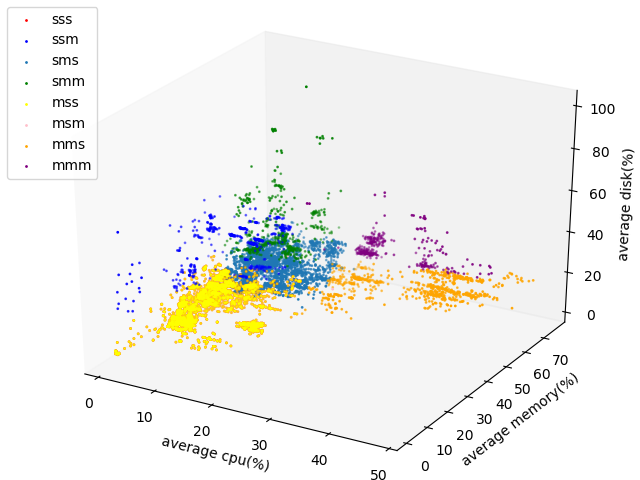
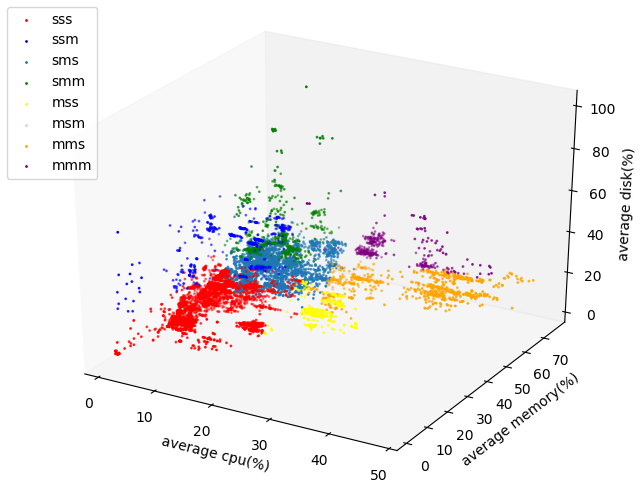
add聚类后的特征分析（cpu memory等）

Changed region(s): [[0.1875, 0.5312, 0.5625, 0.75], [0.1562, 0.7188, 0.1875, 0.75]]

diff --git a/mysql_analysis/online_service/kmeans_container_instance_analysis.py b/mysql_analysis/online_service/kmeans_container_instance_analysis.py
@@ -31,68 +31,92 @@ def graph():
     try:
         # 查询数据条目
         cursor.execute(
-            "SELECT instance_id, avg(avg_cpi), avg(avg_mpki) FROM container_usage WHERE instance_id IN ( SELECT t.instance_id FROM ( SELECT instance_id, avg(cpu_util) AS avg_cpu, avg(mem_util) AS avg_mem, avg(disk_util) AS avg_disk FROM container_usage WHERE mem_util > 0 AND cpu_util > 0 AND disk_util > 0 GROUP BY instance_id ) t WHERE t.avg_cpu <= 17.0986 AND t.avg_mem <= 45.5775 AND t.avg_disk <= 22.8332 ) GROUP BY instance_id")
+            "SELECT instance_id, avg(avg_cpi), avg(avg_mpki), avg(cpu_util), avg(mem_util), avg(disk_util) FROM container_usage WHERE instance_id IN ( SELECT t.instance_id FROM ( SELECT instance_id, avg(cpu_util) AS avg_cpu, avg(mem_util) AS avg_mem, avg(disk_util) AS avg_disk FROM container_usage WHERE mem_util > 0 AND cpu_util > 0 AND disk_util > 0 GROUP BY instance_id ) t WHERE t.avg_cpu <= 17.0986 AND t.avg_mem <= 45.5775 AND t.avg_disk <= 22.8332 ) GROUP BY instance_id")
         sss_instance = cursor.fetchall()
         sss_instance_list = list(sss_instance)
         sss_instance_id = [x[0] for x in sss_instance_list]
         sss_avg_cpi = [x[1] for x in sss_instance_list]
         sss_avg_mpki = [x[2] for x in sss_instance_list]
+        sss_avg_cpu = [x[3] for x in sss_instance_list]
+        sss_avg_mem = [x[4] for x in sss_instance_list]
+        sss_avg_disk = [x[5] for x in sss_instance_list]
 
         cursor.execute(
-            "SELECT instance_id, avg(avg_cpi), avg(avg_mpki) FROM container_usage WHERE instance_id IN ( SELECT t.instance_id FROM ( SELECT instance_id, avg(cpu_util) AS avg_cpu, avg(mem_util) AS avg_mem, avg(disk_util) AS avg_disk FROM container_usage WHERE mem_util > 0 AND cpu_util > 0 AND disk_util > 0 GROUP BY instance_id ) t WHERE t.avg_cpu <= 17.0986 AND t.avg_mem <= 45.5775  AND t.avg_disk > 22.8332 ) group by instance_id")
+            "SELECT instance_id, avg(avg_cpi), avg(avg_mpki), avg(cpu_util), avg(mem_util), avg(disk_util) FROM container_usage WHERE instance_id IN ( SELECT t.instance_id FROM ( SELECT instance_id, avg(cpu_util) AS avg_cpu, avg(mem_util) AS avg_mem, avg(disk_util) AS avg_disk FROM container_usage WHERE mem_util > 0 AND cpu_util > 0 AND disk_util > 0 GROUP BY instance_id ) t WHERE t.avg_cpu <= 17.0986 AND t.avg_mem <= 45.5775  AND t.avg_disk > 22.8332 ) group by instance_id")
         ssm_instance = cursor.fetchall()
         ssm_instance_list = list(ssm_instance)
         ssm_instance_id = [x[0] for x in ssm_instance_list]
         ssm_avg_cpi = [x[1] for x in ssm_instance_list]
         ssm_avg_mpki = [x[2] for x in ssm_instance_list]
+        ssm_avg_cpu = [x[3] for x in ssm_instance_list]
+        ssm_avg_mem = [x[4] for x in ssm_instance_list]
+        ssm_avg_disk = [x[5] for x in ssm_instance_list]
 
         cursor.execute(
-            "SELECT instance_id, avg(avg_cpi), avg(avg_mpki) FROM container_usage WHERE instance_id IN ( SELECT t.instance_id FROM ( SELECT instance_id, avg(cpu_util) AS avg_cpu, avg(mem_util) AS avg_mem, avg(disk_util) AS avg_disk FROM container_usage WHERE mem_util > 0 AND cpu_util > 0 AND disk_util > 0 GROUP BY instance_id ) t WHERE t.avg_cpu <= 17.0986 AND t.avg_mem > 45.5775 AND t.avg_disk < 22.8332 ) group by instance_id")
+            "SELECT instance_id, avg(avg_cpi), avg(avg_mpki), avg(cpu_util), avg(mem_util), avg(disk_util) FROM container_usage WHERE instance_id IN ( SELECT t.instance_id FROM ( SELECT instance_id, avg(cpu_util) AS avg_cpu, avg(mem_util) AS avg_mem, avg(disk_util) AS avg_disk FROM container_usage WHERE mem_util > 0 AND cpu_util > 0 AND disk_util > 0 GROUP BY instance_id ) t WHERE t.avg_cpu <= 17.0986 AND t.avg_mem > 45.5775 AND t.avg_disk < 22.8332 ) group by instance_id")
         sms_instance = cursor.fetchall()
         sms_instance_list = list(sms_instance)
         sms_instance_id = [x[0] for x in sms_instance_list]
         sms_avg_cpi = [x[1] for x in sms_instance_list]
         sms_avg_mpki = [x[2] for x in sms_instance_list]
+        sms_avg_cpu = [x[3] for x in sms_instance_list]
+        sms_avg_mem = [x[4] for x in sms_instance_list]
+        sms_avg_disk = [x[5] for x in sms_instance_list]
 
         cursor.execute(
-            "SELECT instance_id, avg(avg_cpi), avg(avg_mpki) FROM container_usage WHERE instance_id IN ( SELECT t.instance_id FROM ( SELECT instance_id, avg(cpu_util) AS avg_cpu, avg(mem_util) AS avg_mem, avg(disk_util) AS avg_disk FROM container_usage WHERE mem_util > 0 AND cpu_util > 0 AND disk_util > 0 GROUP BY instance_id ) t WHERE t.avg_cpu <= 17.0986 AND t.avg_mem > 45.5775 AND t.avg_disk > 22.8332 ) group by instance_id")
+            "SELECT instance_id, avg(avg_cpi), avg(avg_mpki), avg(cpu_util), avg(mem_util), avg(disk_util) FROM container_usage WHERE instance_id IN ( SELECT t.instance_id FROM ( SELECT instance_id, avg(cpu_util) AS avg_cpu, avg(mem_util) AS avg_mem, avg(disk_util) AS avg_disk FROM container_usage WHERE mem_util > 0 AND cpu_util > 0 AND disk_util > 0 GROUP BY instance_id ) t WHERE t.avg_cpu <= 17.0986 AND t.avg_mem > 45.5775 AND t.avg_disk > 22.8332 ) group by instance_id")
         smm_instance = cursor.fetchall()
         smm_instance_list = list(smm_instance)
         smm_instance_id = [x[0] for x in smm_instance_list]
         smm_avg_cpi = [x[1] for x in smm_instance_list]
         smm_avg_mpki = [x[2] for x in smm_instance_list]
+        smm_avg_cpu = [x[3] for x in smm_instance_list]
+        smm_avg_mem = [x[4] for x in smm_instance_list]
+        smm_avg_disk = [x[5] for x in smm_instance_list]
 
         cursor.execute(
-            "SELECT instance_id, avg(avg_cpi), avg(avg_mpki) FROM container_usage WHERE instance_id IN ( SELECT t.instance_id FROM ( SELECT instance_id, avg(cpu_util) AS avg_cpu, avg(mem_util) AS avg_mem, avg(disk_util) AS avg_disk FROM container_usage WHERE mem_util > 0 AND cpu_util > 0 AND disk_util > 0 GROUP BY instance_id ) t WHERE t.avg_cpu > 17.0986 AND t.avg_mem <= 45.5775 AND t.avg_disk <= 22.8332 ) group by instance_id")
+            "SELECT instance_id, avg(avg_cpi), avg(avg_mpki), avg(cpu_util), avg(mem_util), avg(disk_util) FROM container_usage WHERE instance_id IN ( SELECT t.instance_id FROM ( SELECT instance_id, avg(cpu_util) AS avg_cpu, avg(mem_util) AS avg_mem, avg(disk_util) AS avg_disk FROM container_usage WHERE mem_util > 0 AND cpu_util > 0 AND disk_util > 0 GROUP BY instance_id ) t WHERE t.avg_cpu > 17.0986 AND t.avg_mem <= 45.5775 AND t.avg_disk <= 22.8332 ) group by instance_id")
         mss_instance = cursor.fetchall()
         mss_instance_list = list(mss_instance)
         mss_instance_id = [x[0] for x in mss_instance_list]
         mss_avg_cpi = [x[1] for x in mss_instance_list]
         mss_avg_mpki = [x[2] for x in mss_instance_list]
+        mss_avg_cpu = [x[3] for x in mss_instance_list]
+        mss_avg_mem = [x[4] for x in mss_instance_list]
+        mss_avg_disk = [x[5] for x in mss_instance_list]
 
         cursor.execute(
-            "SELECT instance_id, avg(avg_cpi), avg(avg_mpki) FROM container_usage WHERE instance_id IN ( SELECT t.instance_id FROM ( SELECT instance_id, avg(cpu_util) AS avg_cpu, avg(mem_util) AS avg_mem, avg(disk_util) AS avg_disk FROM container_usage WHERE mem_util > 0 AND cpu_util > 0 AND disk_util > 0 GROUP BY instance_id ) t WHERE t.avg_cpu > 17.0986 AND t.avg_mem <= 45.5775 AND t.avg_disk > 22.8332 ) group by instance_id")
+            "SELECT instance_id, avg(avg_cpi), avg(avg_mpki), avg(cpu_util), avg(mem_util), avg(disk_util) FROM container_usage WHERE instance_id IN ( SELECT t.instance_id FROM ( SELECT instance_id, avg(cpu_util) AS avg_cpu, avg(mem_util) AS avg_mem, avg(disk_util) AS avg_disk FROM container_usage WHERE mem_util > 0 AND cpu_util > 0 AND disk_util > 0 GROUP BY instance_id ) t WHERE t.avg_cpu > 17.0986 AND t.avg_mem <= 45.5775 AND t.avg_disk > 22.8332 ) group by instance_id")
         msm_instance = cursor.fetchall()
         msm_instance_list = list(msm_instance)
         msm_instance_id = [x[0] for x in msm_instance_list]
         msm_avg_cpi = [x[1] for x in msm_instance_list]
         msm_avg_mpki = [x[2] for x in msm_instance_list]
+        msm_avg_cpu = [x[3] for x in msm_instance_list]
+        msm_avg_mem = [x[4] for x in msm_instance_list]
+        msm_avg_disk = [x[5] for x in msm_instance_list]
 
         cursor.execute(
-            "SELECT instance_id, avg(avg_cpi), avg(avg_mpki) FROM container_usage WHERE instance_id IN ( SELECT t.instance_id FROM ( SELECT instance_id, avg(cpu_util) AS avg_cpu, avg(mem_util) AS avg_mem, avg(disk_util) AS avg_disk FROM container_usage WHERE mem_util > 0 AND cpu_util > 0 AND disk_util > 0 GROUP BY instance_id ) t WHERE t.avg_cpu > 17.0986 AND t.avg_mem > 45.5775 AND t.avg_disk < 22.8332 ) group by instance_id")
+            "SELECT instance_id, avg(avg_cpi), avg(avg_mpki), avg(cpu_util), avg(mem_util), avg(disk_util) FROM container_usage WHERE instance_id IN ( SELECT t.instance_id FROM ( SELECT instance_id, avg(cpu_util) AS avg_cpu, avg(mem_util) AS avg_mem, avg(disk_util) AS avg_disk FROM container_usage WHERE mem_util > 0 AND cpu_util > 0 AND disk_util > 0 GROUP BY instance_id ) t WHERE t.avg_cpu > 17.0986 AND t.avg_mem > 45.5775 AND t.avg_disk < 22.8332 ) group by instance_id")
         mms_instance = cursor.fetchall()
         mms_instance_list = list(mms_instance)
         mms_instance_id = [x[0] for x in mms_instance_list]
         mms_avg_cpi = [x[1] for x in mms_instance_list]
         mms_avg_mpki = [x[2] for x in mms_instance_list]
+        mms_avg_cpu = [x[3] for x in mms_instance_list]
+        mms_avg_mem = [x[4] for x in mms_instance_list]
+        mms_avg_disk = [x[5] for x in mms_instance_list]
 
         cursor.execute(
-            "SELECT instance_id, avg(avg_cpi), avg(avg_mpki) FROM container_usage WHERE instance_id IN ( SELECT t.instance_id FROM ( SELECT instance_id, avg(cpu_util) AS avg_cpu, avg(mem_util) AS avg_mem, avg(disk_util) AS avg_disk FROM container_usage WHERE mem_util > 0 AND cpu_util > 0 AND disk_util > 0 GROUP BY instance_id ) t WHERE t.avg_cpu > 17.0986 AND t.avg_mem > 45.5775 AND t.avg_disk > 22.8332 ) group by instance_id")
+            "SELECT instance_id, avg(avg_cpi), avg(avg_mpki), avg(cpu_util), avg(mem_util), avg(disk_util) FROM container_usage WHERE instance_id IN ( SELECT t.instance_id FROM ( SELECT instance_id, avg(cpu_util) AS avg_cpu, avg(mem_util) AS avg_mem, avg(disk_util) AS avg_disk FROM container_usage WHERE mem_util > 0 AND cpu_util > 0 AND disk_util > 0 GROUP BY instance_id ) t WHERE t.avg_cpu > 17.0986 AND t.avg_mem > 45.5775 AND t.avg_disk > 22.8332 ) group by instance_id")
         mmm_instance = cursor.fetchall()
         mmm_instance_list = list(mmm_instance)
         mmm_instance_id = [x[0] for x in mmm_instance_list]
         mmm_avg_cpi = [x[1] for x in mmm_instance_list]
         mmm_avg_mpki = [x[2] for x in mmm_instance_list]
+        mmm_avg_cpu = [x[3] for x in mmm_instance_list]
+        mmm_avg_mem = [x[4] for x in mmm_instance_list]
+        mmm_avg_disk = [x[5] for x in mmm_instance_list]
 
         # 如果没有设置自动提交事务，则这里需要手动提交一次
         conn.commit()
@@ -144,8 +168,8 @@ def graph():
         # plt.show()
 
         # CDF
-        fig = plt.figure()
-        ax1 = fig.add_subplot(111)
+        # fig = plt.figure()
+        # ax1 = fig.add_subplot(111)
         # hist, bin_edges = np.histogram(sss_avg_cpi, bins=100)
         # cdf = np.cumsum(hist / sum(hist))
         # ax1.plot(bin_edges[1:], cdf, label='sss')
@@ -176,34 +200,130 @@ def graph():
         # plt.savefig("../../imgs_mysql/cdf_container_instance_category_cpi")
         # plt.show()
 
+        # hist, bin_edges = np.histogram(sss_avg_mpki, bins=100)
+        # cdf = np.cumsum(hist / sum(hist))
+        # ax1.plot(bin_edges[1:], cdf, label='sss')
+        # hist, bin_edges = np.histogram(ssm_avg_mpki, bins=100)
+        # cdf = np.cumsum(hist / sum(hist))
+        # ax1.plot(bin_edges[1:], cdf, label='ssm')
+        # hist, bin_edges = np.histogram(sms_avg_mpki, bins=100)
+        # cdf = np.cumsum(hist / sum(hist))
+        # ax1.plot(bin_edges[1:], cdf, label='sms')
+        # hist, bin_edges = np.histogram(smm_avg_mpki, bins=100)
+        # cdf = np.cumsum(hist / sum(hist))
+        # ax1.plot(bin_edges[1:], cdf, label='smm')
+        # hist, bin_edges = np.histogram(mss_avg_mpki, bins=100)
+        # cdf = np.cumsum(hist / sum(hist))
+        # ax1.plot(bin_edges[1:], cdf, label='mss')
+        # hist, bin_edges = np.histogram(msm_avg_mpki, bins=100)
+        # cdf = np.cumsum(hist / sum(hist))
+        # ax1.plot(bin_edges[1:], cdf, label='msm')
+        # hist, bin_edges = np.histogram(mms_avg_mpki, bins=100)
+        # cdf = np.cumsum(hist / sum(hist))
+        # ax1.plot(bin_edges[1:], cdf, label='mms')
+        # hist, bin_edges = np.histogram(mmm_avg_mpki, bins=100)
+        # cdf = np.cumsum(hist / sum(hist))
+        # ax1.plot(bin_edges[1:], cdf, label='mmm')
+        # ax1.legend(loc='best')
+        # ax1.set_xlabel("average mpki")
+        # ax1.set_ylabel("portion of instance")
+        # plt.savefig("../../imgs_mysql/cdf_container_instance_category_mpki")
+        # plt.show()
+
+        fig = plt.figure()
+        ax1 = fig.add_subplot(111)
         hist, bin_edges = np.histogram(sss_avg_mpki, bins=100)
         cdf = np.cumsum(hist / sum(hist))
         ax1.plot(bin_edges[1:], cdf, label='sss')
-        hist, bin_edges = np.histogram(ssm_avg_mpki, bins=100)
+        hist, bin_edges = np.histogram(ssm_avg_cpu, bins=100)
         cdf = np.cumsum(hist / sum(hist))
         ax1.plot(bin_edges[1:], cdf, label='ssm')
-        hist, bin_edges = np.histogram(sms_avg_mpki, bins=100)
+        hist, bin_edges = np.histogram(sms_avg_cpu, bins=100)
         cdf = np.cumsum(hist / sum(hist))
         ax1.plot(bin_edges[1:], cdf, label='sms')
-        hist, bin_edges = np.histogram(smm_avg_mpki, bins=100)
+        hist, bin_edges = np.histogram(smm_avg_cpu, bins=100)
         cdf = np.cumsum(hist / sum(hist))
         ax1.plot(bin_edges[1:], cdf, label='smm')
-        hist, bin_edges = np.histogram(mss_avg_mpki, bins=100)
+        hist, bin_edges = np.histogram(mss_avg_cpu, bins=100)
         cdf = np.cumsum(hist / sum(hist))
         ax1.plot(bin_edges[1:], cdf, label='mss')
-        hist, bin_edges = np.histogram(msm_avg_mpki, bins=100)
+        hist, bin_edges = np.histogram(msm_avg_cpu, bins=100)
         cdf = np.cumsum(hist / sum(hist))
         ax1.plot(bin_edges[1:], cdf, label='msm')
-        hist, bin_edges = np.histogram(mms_avg_mpki, bins=100)
+        hist, bin_edges = np.histogram(mms_avg_cpu, bins=100)
         cdf = np.cumsum(hist / sum(hist))
         ax1.plot(bin_edges[1:], cdf, label='mms')
-        hist, bin_edges = np.histogram(mmm_avg_mpki, bins=100)
+        hist, bin_edges = np.histogram(mmm_avg_cpu, bins=100)
         cdf = np.cumsum(hist / sum(hist))
         ax1.plot(bin_edges[1:], cdf, label='mmm')
         ax1.legend(loc='best')
-        ax1.set_xlabel("average mpki")
+        ax1.set_xlabel("cpu utilization(%)")
         ax1.set_ylabel("portion of instance")
-        plt.savefig("../../imgs_mysql/cdf_container_instance_category_mpki")
+        plt.savefig("../../imgs_mysql/cdf_container_instance_category_cpu")
+        plt.show()
+
+        fig = plt.figure()
+        ax1 = fig.add_subplot(111)
+        hist, bin_edges = np.histogram(sss_avg_mem, bins=100)
+        cdf = np.cumsum(hist / sum(hist))
+        ax1.plot(bin_edges[1:], cdf, label='sss')
+        hist, bin_edges = np.histogram(ssm_avg_mem, bins=100)
+        cdf = np.cumsum(hist / sum(hist))
+        ax1.plot(bin_edges[1:], cdf, label='ssm')
+        hist, bin_edges = np.histogram(sms_avg_mem, bins=100)
+        cdf = np.cumsum(hist / sum(hist))
+        ax1.plot(bin_edges[1:], cdf, label='sms')
+        hist, bin_edges = np.histogram(smm_avg_mem, bins=100)
+        cdf = np.cumsum(hist / sum(hist))
+        ax1.plot(bin_edges[1:], cdf, label='smm')
+        hist, bin_edges = np.histogram(mss_avg_mem, bins=100)
+        cdf = np.cumsum(hist / sum(hist))
+        ax1.plot(bin_edges[1:], cdf, label='mss')
+        hist, bin_edges = np.histogram(msm_avg_mem, bins=100)
+        cdf = np.cumsum(hist / sum(hist))
+        ax1.plot(bin_edges[1:], cdf, label='msm')
+        hist, bin_edges = np.histogram(mms_avg_mem, bins=100)
+        cdf = np.cumsum(hist / sum(hist))
+        ax1.plot(bin_edges[1:], cdf, label='mms')
+        hist, bin_edges = np.histogram(mmm_avg_mem, bins=100)
+        cdf = np.cumsum(hist / sum(hist))
+        ax1.plot(bin_edges[1:], cdf, label='mmm')
+        ax1.legend(loc='best')
+        ax1.set_xlabel("memory utilization(%)")
+        ax1.set_ylabel("portion of instance")
+        plt.savefig("../../imgs_mysql/cdf_container_instance_category_mem")
+        plt.show()
+
+        fig = plt.figure()
+        ax1 = fig.add_subplot(111)
+        hist, bin_edges = np.histogram(sss_avg_disk, bins=100)
+        cdf = np.cumsum(hist / sum(hist))
+        ax1.plot(bin_edges[1:], cdf, label='sss')
+        hist, bin_edges = np.histogram(ssm_avg_disk, bins=100)
+        cdf = np.cumsum(hist / sum(hist))
+        ax1.plot(bin_edges[1:], cdf, label='ssm')
+        hist, bin_edges = np.histogram(sms_avg_disk, bins=100)
+        cdf = np.cumsum(hist / sum(hist))
+        ax1.plot(bin_edges[1:], cdf, label='sms')
+        hist, bin_edges = np.histogram(smm_avg_disk, bins=100)
+        cdf = np.cumsum(hist / sum(hist))
+        ax1.plot(bin_edges[1:], cdf, label='smm')
+        hist, bin_edges = np.histogram(mss_avg_disk, bins=100)
+        cdf = np.cumsum(hist / sum(hist))
+        ax1.plot(bin_edges[1:], cdf, label='mss')
+        hist, bin_edges = np.histogram(msm_avg_disk, bins=100)
+        cdf = np.cumsum(hist / sum(hist))
+        ax1.plot(bin_edges[1:], cdf, label='msm')
+        hist, bin_edges = np.histogram(mms_avg_disk, bins=100)
+        cdf = np.cumsum(hist / sum(hist))
+        ax1.plot(bin_edges[1:], cdf, label='mms')
+        hist, bin_edges = np.histogram(mmm_avg_disk, bins=100)
+        cdf = np.cumsum(hist / sum(hist))
+        ax1.plot(bin_edges[1:], cdf, label='mmm')
+        ax1.legend(loc='best')
+        ax1.set_xlabel("disk utilization(%)")
+        ax1.set_ylabel("portion of instance")
+        plt.savefig("../../imgs_mysql/cdf_container_instance_category_disk")
         plt.show()
 
     except:

diff --git a/mysql_analysis/batch_job_container_instance_at_time_6h.py b/mysql_analysis/batch_job_container_instance_at_time_6h.py
@@ -14,9 +14,13 @@ def graph():
     cursor = conn.cursor()
     # 因该模块底层其实是调用CAPI的，所以，需要先得到当前指向数据库的指针。
     try:
-        cursor.execute("select machineID, count(instance_id) from container_event where instance_id in (select DISTINCT instance_id from container_usage where ts <= 61050) group by machineID")
+        cursor.execute("select machineID, count(instance_id) from container_event where instance_id in (select DISTINCT instance_id from container_usage where ts <= 61050) group by machineID order by machineID")
         records = cursor.fetchall()
         list_records = list(records)
+
+        cursor.execute("select machineID, count(DISTINCT id) from batch_instance where start_timestamp <= 61050 and end_timestamp >= 61050 group by machineID order by machineID")
+        records = cursor.fetchall()
+        batch_instance_list_records = list(records)
 
     except:
         import traceback
@@ -32,29 +36,34 @@ def graph():
     res = []
     res[:] = map(list, list_records)
     machineID = [x[0] for x in res]
+    print(max(machineID))
     instance_num = [x[1] for x in res]
     print(max(instance_num))
     print(np.average(instance_num))
     print(min(instance_num))
 
+    res[:] = map(list, batch_instance_list_records)
+    batch_machineID = [x[0] for x in res]
+    print(max(batch_machineID))
+    batch_instance_num = [x[1] for x in res]
+    print(max(batch_instance_num))
+    print(np.average(batch_instance_num))
+    print(min(batch_instance_num))
 
-    fig = plt.figure()
+
+    fig = plt.figure(figsize=(16,4))
     ax1 = fig.add_subplot(1, 1, 1)
     # # 直方图
-    ax1.hist(instance_num, density=False, alpha=1.0, bins=100)
-    ax1.set_xlabel('instance number per machine')
-    ax1.set_ylabel('machine number')
-    ax1.set_xticks([y for y in range(max(instance_num) + 1)])
-    # cdf
-    axins = inset_axes(ax1, width=1.5, height=1.5, loc='upper right')
-    hist, bin_edges = np.histogram(instance_num, bins=len(np.unique(instance_num)))
-    cdf = np.cumsum(hist / sum(hist))
-    axins.plot(bin_edges[1:], cdf, color='red', ls='-')
-    # axins.set_yticks([])  # 设置y轴不显示刻度值
-    axins.set_xlabel("instance number per machine", fontsize=6)
-    axins.set_ylabel("portion of machine", fontsize=6)
+    # for i in
+    ax1.plot(machineID, instance_num, linewidth=0.5, label='online service')
+    ax1.plot(batch_machineID, batch_instance_num, linewidth=0.5, label='batch workload')
+    ax1.set_xlabel('machineID')
+    ax1.set_ylabel('instance number')
+    # ax1.set_yticks([y for y in range(0,20) if y/2 == 0 ])
+    ax1.set_ylim(0, 20)
+    ax1.set_xlim(1, 1313)
 
-    plt.savefig("../../imgs_mysql/container_instance_number_at_61050")
+    plt.savefig("../imgs_mysql/batch_job_container_instance_at_61050")
     plt.show()
 
 if __name__ == '__main__':

diff --git a/mysql_analysis/online_service/instance_number_all_time.py b/mysql_analysis/online_service/instance_number_all_time.py
@@ -14,7 +14,7 @@ def graph():
     cursor = conn.cursor()
     # 因该模块底层其实是调用CAPI的，所以，需要先得到当前指向数据库的指针。
     try:
-        cursor.execute("select machineID, count(instance_id) from container_event where instance_id in (select DISTINCT instance_id from container_usage where ts <= 61050) group by machineID")
+        cursor.execute("select ts, count(DISTINCT instance_id) from container_usage group by ts")
         records = cursor.fetchall()
         list_records = list(records)
 
@@ -31,30 +31,17 @@ def graph():
 
     res = []
     res[:] = map(list, list_records)
-    machineID = [x[0] for x in res]
+    ts = [x[0]/3600-11 for x in res]
     instance_num = [x[1] for x in res]
     print(max(instance_num))
-    print(np.average(instance_num))
     print(min(instance_num))
-
 
     fig = plt.figure()
     ax1 = fig.add_subplot(1, 1, 1)
-    # # 直方图
-    ax1.hist(instance_num, density=False, alpha=1.0, bins=100)
-    ax1.set_xlabel('instance number per machine')
-    ax1.set_ylabel('machine number')
-    ax1.set_xticks([y for y in range(max(instance_num) + 1)])
-    # cdf
-    axins = inset_axes(ax1, width=1.5, height=1.5, loc='upper right')
-    hist, bin_edges = np.histogram(instance_num, bins=len(np.unique(instance_num)))
-    cdf = np.cumsum(hist / sum(hist))
-    axins.plot(bin_edges[1:], cdf, color='red', ls='-')
-    # axins.set_yticks([])  # 设置y轴不显示刻度值
-    axins.set_xlabel("instance number per machine", fontsize=6)
-    axins.set_ylabel("portion of machine", fontsize=6)
-
-    plt.savefig("../../imgs_mysql/container_instance_number_at_61050")
+    ax1.plot(ts, instance_num)
+    ax1.set_xlabel('time(h)')
+    ax1.set_ylabel('instance number')
+    plt.savefig("../../imgs_mysql/container_instance_num_all_time")
     plt.show()
 
 if __name__ == '__main__':

diff --git a/mysql_analysis/online_service/kmeans_container_instance.py b/mysql_analysis/online_service/kmeans_container_instance.py
@@ -65,7 +65,7 @@ def graph():
         smm_avg_disk = [x[3] for x in smm_instance_list]
 
         cursor.execute(
-            "select t.instance_id, t.avg_cpu, t.avg_mem, t.avg_disk from (select instance_id, avg(cpu_util) as avg_cpu, avg(mem_util) as avg_mem, avg(disk_util) as avg_disk from container_usage where mem_util > 0 and cpu_util > 0 and disk_util > 0 group by instance_id) t where t.avg_cpu <= 17.0986 and avg_mem <= 45.5775 and avg_disk <= 22.8332")
+            "select t.instance_id, t.avg_cpu, t.avg_mem, t.avg_disk from (select instance_id, avg(cpu_util) as avg_cpu, avg(mem_util) as avg_mem, avg(disk_util) as avg_disk from container_usage where mem_util > 0 and cpu_util > 0 and disk_util > 0 group by instance_id) t where t.avg_cpu > 17.0986 and avg_mem <= 45.5775 and avg_disk <= 22.8332")
         mss_instance = cursor.fetchall()
         mss_instance_list = list(mss_instance)
         mss_instance_id = [x[0] for x in mss_instance_list]

diff --git a/mysql_analysis/batch_job/instance_num_machine_id.py b/mysql_analysis/batch_job/instance_num_machine_id.py
@@ -20,7 +20,7 @@ def graph():
     machineID_list = []
     X_label = []
     X = []
-    step = 300
+    step = 60
     # while x < 86400-step:
     #     x = x + step
     #     X.append(x)
@@ -71,7 +71,7 @@ def graph():
     cbar.set_ticks(np.linspace(0, 100, 6))
     ax1.set_xlabel("time(h)")
     ax1.set_ylabel("machineID")
-    plt.savefig("../../imgs_mysql/instance_number_machine_id")
+    plt.savefig("../../imgs_mysql/instance_number_machine_id_3")
     plt.show()
 
 if __name__ == '__main__':
